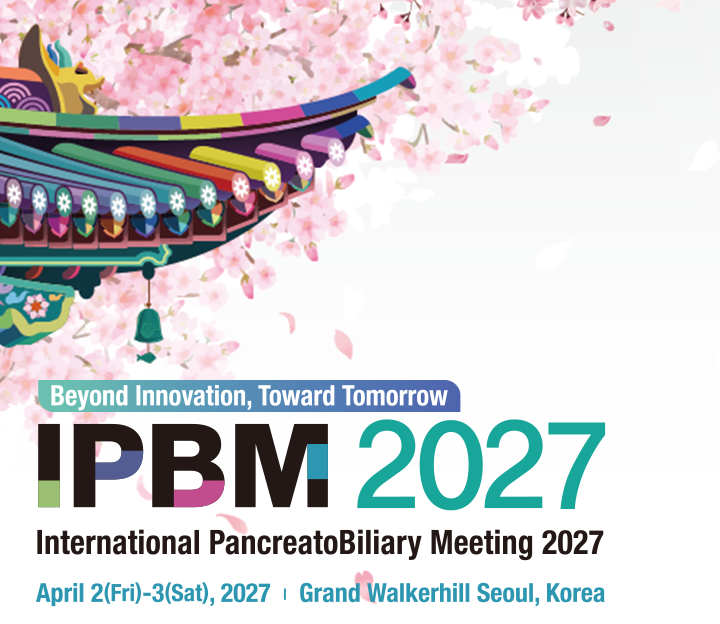
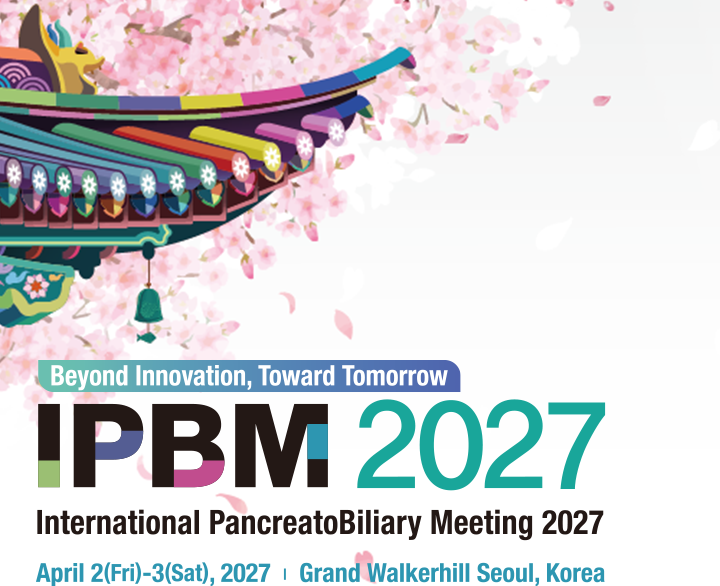
Remove middle white gap on Home screen and lock Home viewport against scrolling (v1.1.5)

diff --git a/index.html b/index.html
@@ -513,21 +513,36 @@
     }
 
     /* One-Screen Zero-Scroll Home Layout (Official Mobile Page Style) */
+    body.home-locked {
+      overflow: hidden !important;
+      overscroll-behavior: none !important;
+      position: fixed;
+      inset: 0;
+      width: 100%;
+      height: 100%;
+    }
     .app-shell.is-home {
+      position: fixed;
+      inset: 0;
+      width: 100%;
+      max-width: 520px;
+      margin: 0 auto;
       height: 100vh;
       height: 100dvh;
-      overflow: hidden;
+      overflow: hidden !important;
+      overscroll-behavior: none !important;
+      touch-action: none;
       background-color: #FFFFFF;
       background-image: url('./assets/home_blossom_br.png');
       background-repeat: no-repeat;
-      background-position: right bottom 54px;
-      background-size: 58% auto;
+      background-position: right bottom 52px;
+      background-size: 56% auto;
     }
     .app-shell.is-home .main-content {
       flex: 1;
       min-height: 0;
-      overflow: hidden;
-      padding: 0 12px calc(62px + env(safe-area-inset-bottom)) !important;
+      overflow: hidden !important;
+      padding: 0 12px calc(58px + env(safe-area-inset-bottom)) !important;
       display: flex;
       flex-direction: column;
     }
@@ -536,12 +551,12 @@
       min-height: 0;
       display: flex;
       flex-direction: column;
-      justify-content: space-between;
-      gap: 8px !important;
+      justify-content: flex-start;
+      gap: 6px !important;
       padding-top: 0 !important;
     }
     .app-shell.is-home .home-visual-card {
-      flex: 0 1 auto;
+      flex: 0 0 auto;
       width: calc(100% + 24px);
       margin: 0 -12px;
       background: transparent;
@@ -553,8 +568,8 @@
     .app-shell.is-home .home-visual-img {
       width: 100%;
       height: auto;
-      max-height: 46dvh;
-      object-fit: cover;
+      max-height: 44dvh;
+      object-fit: contain;
       object-position: top center;
       display: block;
     }
@@ -562,12 +577,12 @@
       flex-shrink: 0;
       display: grid;
       grid-template-columns: repeat(2, 1fr);
-      gap: 11px !important;
-      margin-top: auto;
+      gap: 10px !important;
+      margin-top: 2px;
     }
     .app-shell.is-home .home-tile {
-      min-height: 108px;
-      padding: 14px 14px 12px !important;
+      min-height: 98px;
+      padding: 13px 14px 11px !important;
       border-radius: 18px !important;
       border: none !important;
       background: linear-gradient(155deg, #524FB6 0%, #3E72C4 55%, #46A3D4 100%) !important;
@@ -1355,7 +1370,7 @@
   <div class="toast" id="toast"></div>
 
   <script>
-    const APP_VERSION = 'v1.1.4';
+    const APP_VERSION = 'v1.1.5';
     const STORAGE_KEY_SAVED = 'ipbm2027_saved_sessions_v1';
     const STORAGE_KEY_LANG = 'ipbm2027_lang_v1';
 
@@ -2907,6 +2922,7 @@
       document.documentElement.lang = lang;
       const shellEl = document.querySelector('.app-shell');
       if (shellEl) shellEl.classList.toggle('is-home', currentTab === 'home');
+      document.body.classList.toggle('home-locked', currentTab === 'home');
       const ddayEl = document.getElementById('headerDdayBadge');
       if (ddayEl) ddayEl.textContent = getHeaderDDayText();
       document.getElementById('langToggleBtn').textContent = lang === 'ko' ? 'EN' : '한국어';

diff --git a/sw.js b/sw.js
@@ -1,4 +1,4 @@
-const CACHE_NAME = 'ipbm2027-v8';
+const CACHE_NAME = 'ipbm2027-v9';
 const ASSETS = [
   './',
   './index.html',
